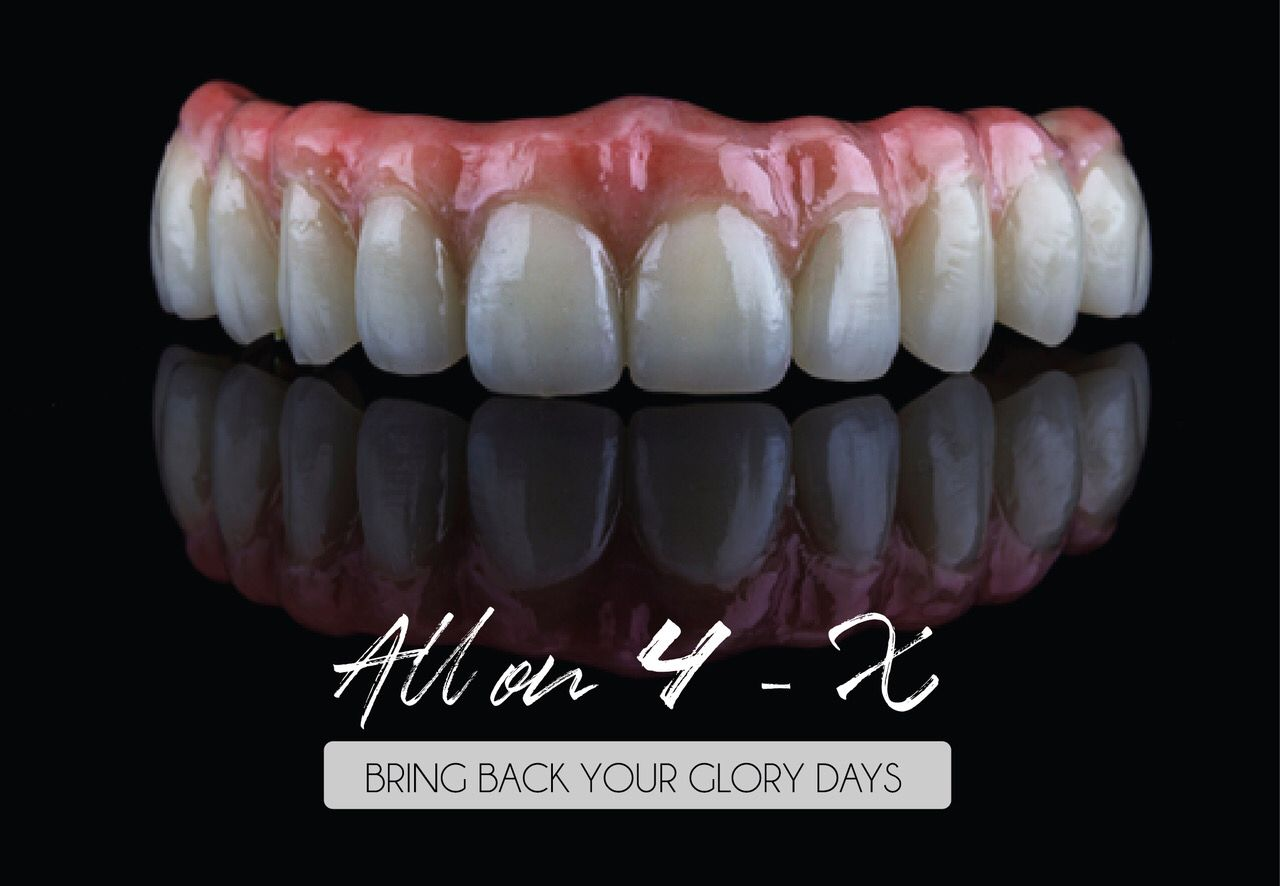
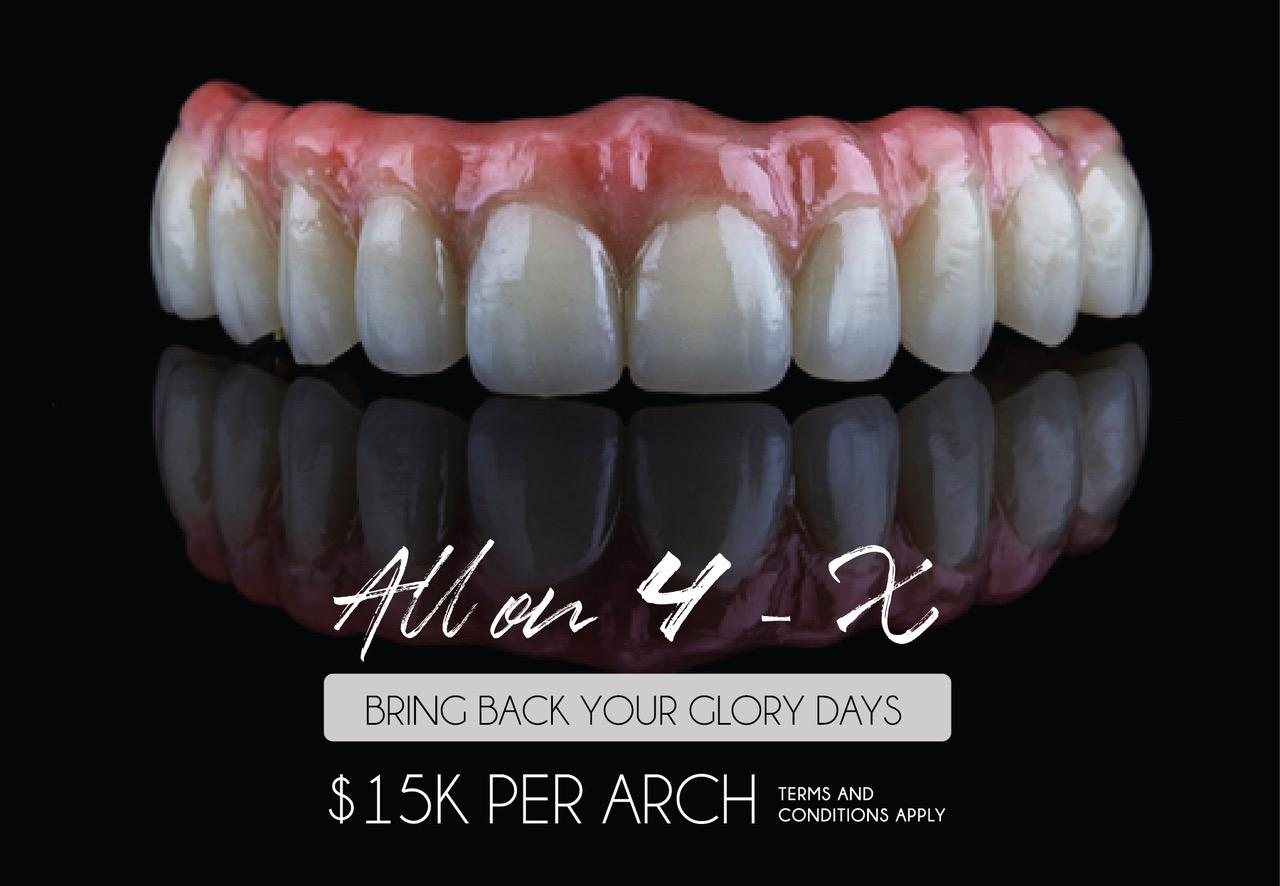
:rocket: :bug: Fixing minor bugs for deployment.

Changed region(s): [[0.25, 0.6095, 0.75, 0.9447], [0.625, 0.7009, 0.6562, 0.7314], [0.5938, 0.6704, 0.625, 0.7009]]

diff --git a/src/app/faq/faq.component.ts b/src/app/faq/faq.component.ts
@@ -11,55 +11,57 @@ export class FaqComponent implements OnInit {
   questions = [
     {
       title: "1.  How do I get from the border to you?",
-      text: "There are plenty of ways to do so, you can drive over, take an uber or a taxi."
+      text: `There are plenty of ways to do so, you can drive over, take an uber or a taxi. If you need a ride
+      back to the border from our clinic, we can always ask an Uber for you.`
     }, {
       title: "2.	How easy it is to cross the border?",
-      text: "It’s always easier than it seems, you just need to bring your I.D. + passport."
+      text: `It’s always easier than it seems, you just need to bring your I.D. and your passport since they’ll
+      ask for it at the border when crossing back to the U.S.`
     }, {
       title: "3.	How far are you from the border?",
-      text: "Relatively close, about 10 minutes away from the border."
+      text: `Relatively close, about 10 minutes away from the border by car.`
     }, {
       title: "4.	Are there any hotels near you?",
-      text: "There are, you can ask for recommendations since we have some agreements with several for special prices."
+      text: `There are, you can ask for recommendations since we have some agreements with several close to us for special prices.`
     }, {
       title: "5.	Do you take U.S. Insurance?",
-      text: "We do, only PPO insurance since they’re the only ones that work in México."
+      text: `We do, only PPO insurances since they’re the only ones that work in Mexico. We’ll still have to do a verification of your benefits, so feel free to contact us and ask for your coverage.`
     }, {
       title: "6.	What are your payment methods?",
-      text: "You can pay with Cash, Credit card (Visa, MasterCard) or transfer (Wells Fargo or Zelle)."
+      text: `You can pay with cash, credit card (Visa, MasterCard), personal checks or bank transfer (Wells Fargo or Zelle).`
     }, {
       title: "7.	Do you do everything at your office?",
-      text: "We do, we try to give our patients the best experience, and that means having everything they need in hand!"
+      text: `Yes, for your commodity we perform all of our treatments inside our office in order to give our patients the best experience.`
     }, {
       title: "8.	What is your availability on the week?",
-      text: "Monday – Friday 10 am – 5 pm Saturday 9 am – 3 pm"
+      text: "Monday – Friday 10 am – 5 pm, Saturday 9 am – 3 pm"
     }, {
       title: "9.	Do you offer dental implants?",
       text: "We do! World leader Straumann Dental + Neodent (Straumann)."
     }, {
       title: "10.	What are your payment options?",
-      text: "You can pay it all at once, or pay as you go."
+      text: `The payments are done as the treatments are completed, but you can always pay in advance towards the total of your treatment plan.`
     }, {
       title: "11.	Do you offer oral sedation I.V.?",
-      text: "Yes, for patient with high levels of anxiety or other complications."
+      text: `Yes, we offer that option for patients with high levels of anxiety or other complications.`
     }, {
       title: "12.	What kind of crowns do you offer?",
-      text: "We offer full Zirconia crowns or Full Porcelain, either option will be great for you."
+      text: `We offer full Zirconia crowns or Full Porcelain crowns, either option will be great for you.`
     }, {
       title: "13.	Are veneer/crowns forever?",
-      text: "They can last up to 15 years as long as you come regularly to your yearly cleaning + checkup."
+      text: `They can last up to 15 years as long as you come regularly to your yearly checkup and cleaning.`
     }, {
       title: "14.	Do you offer teeth whitening?",
-      text: "We offer at home whitening kit, $150.00 usd and it works just as good as the one done in office."
+      text: `We offer a home whitening kit, which works just as good as the one done in an office. We give you the trays and material here at the office so you can perform it at home.`
     }, {
       title: "15.	What can I do about my gummy smile?",
-      text: "We have plenty options, one of them being Gum contouring done by an specialist!"
+      text: `We have plenty of options, one of them being gum contouring done by a specialist.`
     }, {
       title: "16.	How far in advance can I set up an appointment?",
-      text: "If you know your schedule you can set up your appointments as far as 1-2 months in advance."
+      text: `If you know your schedule you can set up your appointments as far as 1-2 months in advance.`
     }, {
       title: "17.	Do you offer any discounts when paid in cash?",
-      text: "We do, if you pay your entire treatment in the 1st – 2nd appointment we give you 10% discount!"
+      text: `We do, if you pay your entire treatment in the 1st – 2nd appointment we can give you a 10% discount.`
     }
   ];
 

diff --git a/src/app/prices/prices.component.ts b/src/app/prices/prices.component.ts
@@ -31,8 +31,8 @@ export class PricesComponent implements OnInit {
       {name: 'Consultation with X-Rays', boc_price: '$40'},
       {name: 'Consultation with CT-Scan', boc_price: '$120'},
       {name: 'Regular Cleanings', boc_price: '$60 - $80'},
-      {name: 'Composite Filling', boc_price: '$60 - $100'},
-      {name: 'Temporary partial (Flipper)', boc_price: '$60 - $100', extra: 'up to 3 Units'},
+      {name: 'Composite Filling', boc_price: '$80 - $100'},
+      {name: 'Temporary partial (Flipper)', boc_price: '$80 - $100', extra: 'up to 3 Units'},
       {name: 'Removable Partial', boc_price: '$500', extra: 'per Arch'},
       {name: 'Denture', boc_price: '$600', extra: 'per Arch'},
       {name: 'PFM (Porcelain Fused to metal) Crown', boc_price: '$350'},
@@ -41,16 +41,16 @@ export class PricesComponent implements OnInit {
     cosmetic: [
       {name: 'Porcelain Veneer', boc_price: '$500'},
       {name: 'All Porcelain Crown', boc_price: '$500'},
-      {name: '1 Day All Porcelain Crown (Cerec)', boc_price: '$550'},
+      // {name: '1 Day All Porcelain Crown (Cerec)', boc_price: '$550'},
       {name: 'Zirconia / Porcelain Crown', boc_price: '$500'},
       {name: 'Full Zirconia Crown', boc_price: '$500'},
       {name: 'Porcelain Inlay / Onlay', boc_price: '$300'},
-      {name: 'Whitening take home kit', boc_price: '$150'},
+      {name: 'Whitening take home kit', boc_price: '$200'},
     ],
     implants: [
       {name: 'Single Dental Implant', boc_price: '$1000'},
-      {name: 'All on 4', boc_price: '$13,000', extra: 'per Arch'},
-      {name: 'All on 6', boc_price: '$15,000', extra: 'per Arch'},
+      {name: 'All on 4 - X', boc_price: '$15,000', extra: 'per Arch'},
+      // {name: 'All on 6', boc_price: '$15,000', extra: 'per Arch'},
       {name: 'Abutment', boc_price: '$400 - $500'},
       {name: 'PFM Crown For Implant', boc_price: '$400'},
       {name: 'Sinus Lift', boc_price: '$600'},
@@ -75,10 +75,10 @@ export class PricesComponent implements OnInit {
       {name: 'Invisalign', boc_price: '$4500'},
     ],
     oral_surgery: [
-      {name: 'Simple Extraction', boc_price: '$100'},
-      {name: 'Simple Extraction with Bone Graft (Socket Preservation)', boc_price: '$350'},
-      {name: 'Surgical Tooth Extraction', boc_price: '$150'},
-      {name: 'Surgical Extraction w/ Bone Graft', boc_price: '$400'},
+      {name: 'Tooth Extraction', boc_price: '$120'},
+      {name: 'Tooth Extraction with Bone Graft (Socket Preservation)', boc_price: '$350'},
+      // {name: 'Surgical Tooth Extraction', boc_price: '$150'},
+      // {name: 'Surgical Extraction w/ Bone Graft', boc_price: '$400'},
       {name: 'Wisdom Tooth Removal', boc_price: 'referred to specialist', currency_off: true},
     ]
   };

diff --git a/src/app/sidebar/sidebar.component.html b/src/app/sidebar/sidebar.component.html
@@ -38,7 +38,7 @@
                     <hr>
                 </li>
                 <li class="nav-item">
-                    <a class="nav-link text-boc-secondary sidebar-text" href="tel:6192705368" target="__blank">US: +1(619)-270-5368</a>
+                    <a class="nav-link text-boc-secondary sidebar-text" href="tel:+16192705368" target="__blank">US: +1(619)-270-5368</a>
                 </li>
                 <li class="nav-item">
                     <a class="nav-link text-boc-secondary sidebar-text" href="tel:011526646347626" target="__blank">MX: +1(664)-634-7626</a>
@@ -54,7 +54,7 @@
                         <a href="https://www.instagram.com/bajaoralcenter" target="__blank">
                             <fa-icon class="pl-1 pr-4" [icon]="faInstagram" size="md"></fa-icon>
                         </a>
-                        <a href="https://api.whatsapp.com/send?phone=6192705368" target="__blank">
+                        <a href="https://api.whatsapp.com/send?phone=16192705368" target="__blank">
                             <fa-icon class="pl-1 pr-4" [icon]="faWhatsapp" size="md"></fa-icon>
                         </a>
                     </div>
@@ -120,7 +120,7 @@
                     <hr>
                 </li>
                 <li class="nav-item">
-                    <a class="nav-link text-boc-secondary sidebar-text" href="tel:6192705368" target="__blank">US: +1(619)-270-5368</a>
+                    <a class="nav-link text-boc-secondary sidebar-text" href="tel:+16192705368" target="__blank">US: +1(619)-270-5368</a>
                 </li>
                 <li class="nav-item">
                     <a class="nav-link text-boc-secondary sidebar-text" href="tel:011526646347626" target="__blank">MX: +1(664)-634-7626</a>
@@ -136,7 +136,7 @@
                         <a href="https://www.instagram.com/bajaoralcenter" target="__blank">
                             <fa-icon class="pl-1 pr-4" [icon]="faInstagram" size="md"></fa-icon>
                         </a>
-                        <a href="https://api.whatsapp.com/send?phone=6192705368" target="__blank">
+                        <a href="https://api.whatsapp.com/send?phone=16192705368" target="__blank">
                             <fa-icon class="pl-1 pr-4" [icon]="faWhatsapp" size="md"></fa-icon>
                         </a>
                     </div>

diff --git a/src/app/contact/contact.component.html b/src/app/contact/contact.component.html
@@ -17,9 +17,11 @@
             <div class="d-flex flex-column info-box">
                 <h4>Baja Oral Center</h4>
                 <div class="d-flex flex-column py-2">
-                    <span>José Clemente Orozco 10122</span>
+                    <!-- <span>José Clemente Orozco 10122</span>
                     <span>Zona Urbana Rio Tijuana</span>
-                    <span>22010 Tijuana, B.C.</span>
+                    <span>22010 Tijuana, B.C.</span> -->
+                    <span>Just type Baja Oral Center on Uber</span>
+                    <span>or Google Maps to find us.</span>
                 </div>
                 <div class="d-flex flex-column py-2">
                     <span><b>Mon - Fri:</b> 9:30am to 5pm</span>

diff --git a/src/app/home/home.component.ts b/src/app/home/home.component.ts
@@ -17,9 +17,9 @@ export class HomeComponent implements OnInit {
   ];
   bannersArrayMobile: Array<any> = [
     {backgroundImage: 'assets/banners/boc-banner-home-small.jpg'},
-    {backgroundImage: 'assets/banners/boc-banner-allon4-small.jpg'},
-    {backgroundImage: 'assets/banners/boc-banner-implants-small.jpg'},
-    {backgroundImage: 'assets/banners/boc-banner-zirconia-small.jpg'}
+    {backgroundImage: 'assets/banners/boc-banner-allon4-small.jpeg'},
+    {backgroundImage: 'assets/banners/boc-banner-implants-small.jpeg'},
+    {backgroundImage: 'assets/banners/boc-banner-zirconia-small.jpeg'}
   ];
 
   constructor(public router: Router, private titleService: Title){

diff --git a/src/app/home/home.component.html b/src/app/home/home.component.html
@@ -177,7 +177,7 @@
                 <fa-icon [icon]="['far', 'envelope']" [fixedWidth]="true"></fa-icon>
             </div>
         </a>
-        <a href="tel:6192705368" target="__self" class="feature-box d-flex flex-column align-items-center justify-content-center">
+        <a href="tel:+16192705368" target="__self" class="feature-box d-flex flex-column align-items-center justify-content-center">
             <b>Call us</b>
             <div class="feature-icon">
                 <fa-icon [icon]="['fas', 'phone-alt']" [fixedWidth]="true"></fa-icon>

diff --git a/src/app/app.component.ts b/src/app/app.component.ts
@@ -69,10 +69,10 @@ export class AppComponent implements OnInit {
         window.open('https://api.whatsapp.com/send?phone=16192705368', '_blank').focus();
         break;
       case 3:
-        window.open('sms:6192705368?body=Hello. I would like to make an appointment.', '_blank').focus();
+        window.open('sms:+16192705368', '_blank').focus();
         break;
       case 4:
-        window.open('tel:6192705368', '_blank').focus();
+        window.open('tel:+16192705368', '_blank').focus();
         break;
     
       default:

diff --git a/src/app/services-page/services-page.component.html b/src/app/services-page/services-page.component.html
@@ -62,7 +62,7 @@
             <!-- Row 3 -->
             <app-card 
                 [icon]="'url(assets/icons/service-endodontic.svg)'"
-                [image]="'assets/banners/boc-banner-rootcanal-small.jpg'"
+                [image]="'assets/banners/boc-banner-rootcanal-small.jpeg'"
                 [title]="'Root canal treatment'"
                 [subtitle]="'Relieve the pain'"
                 [text]="'Tooth Pain? Broken tooth? Give your tooth another chance.'"

diff --git a/src/app/services-page/root-canal/root-canal.component.html b/src/app/services-page/root-canal/root-canal.component.html
@@ -1,7 +1,7 @@
 <app-service-model
     [mainTitle]="'Root Canal'"
     [mainImageDesktop]="'assets/banners/boc-banner-rootcanal.jpeg'"
-    [mainImageMobile]="'assets/banners/boc-banner-rootcanal-small.jpg'"
+    [mainImageMobile]="'assets/banners/boc-banner-rootcanal-small.jpeg'"
     [images]="['assets/img/services/rootcanal-1.jpg', 'assets/img/services/rootcanal-2.jpg']"
     [titles]="titlesArr"
     [texts]="textsArr"

diff --git a/src/app/services-page/veneers/veneers.component.html b/src/app/services-page/veneers/veneers.component.html
@@ -1,7 +1,7 @@
 <app-service-model
     [mainTitle]="'Veneers'"
     [mainImageDesktop]="'assets/banners/boc-banner-veneers.jpeg'"
-    [mainImageMobile]="'assets/banners/boc-banner-veners-small.jpeg'"
+    [mainImageMobile]="'assets/banners/boc-banner-veneers-small.jpeg'"
     [images]="['assets/img/services/veneers-1.png', 'assets/img/services/veneers-2.jpg']"
     [titles]="titlesArr"
     [texts]="textsArr"

diff --git a/src/app/home/home.component.scss b/src/app/home/home.component.scss
@@ -33,7 +33,7 @@
 
     &__features {
         border-top: 1px solid #c7b59b;
-        padding: 3rem 0;
+        padding: 6rem 0;
 
         b {
             font-size: 14px;
@@ -88,6 +88,10 @@
                 width: 70%;
                 margin: 0 auto;
             }
+        }
+        &__features {
+            border-top: 1px solid #c7b59b;
+            padding: 3rem 0;
         }
     }
 

diff --git a/src/app/footer/footer.component.html b/src/app/footer/footer.component.html
@@ -1,5 +1,5 @@
 <div id="footer" class="d-flex">
-    <div class="d-flex flex-column flex-md-row align-items-center justify-content-center justify-content-md-between w-100">
+    <div class="d-flex flex-column flex-md-row align-items-center justify-content-center justify-content-md-between w-100 py-4 py-md-0">
         <span>Baja Oral Center 2020 - All rights reserved</span>
     </div>
 </div>
